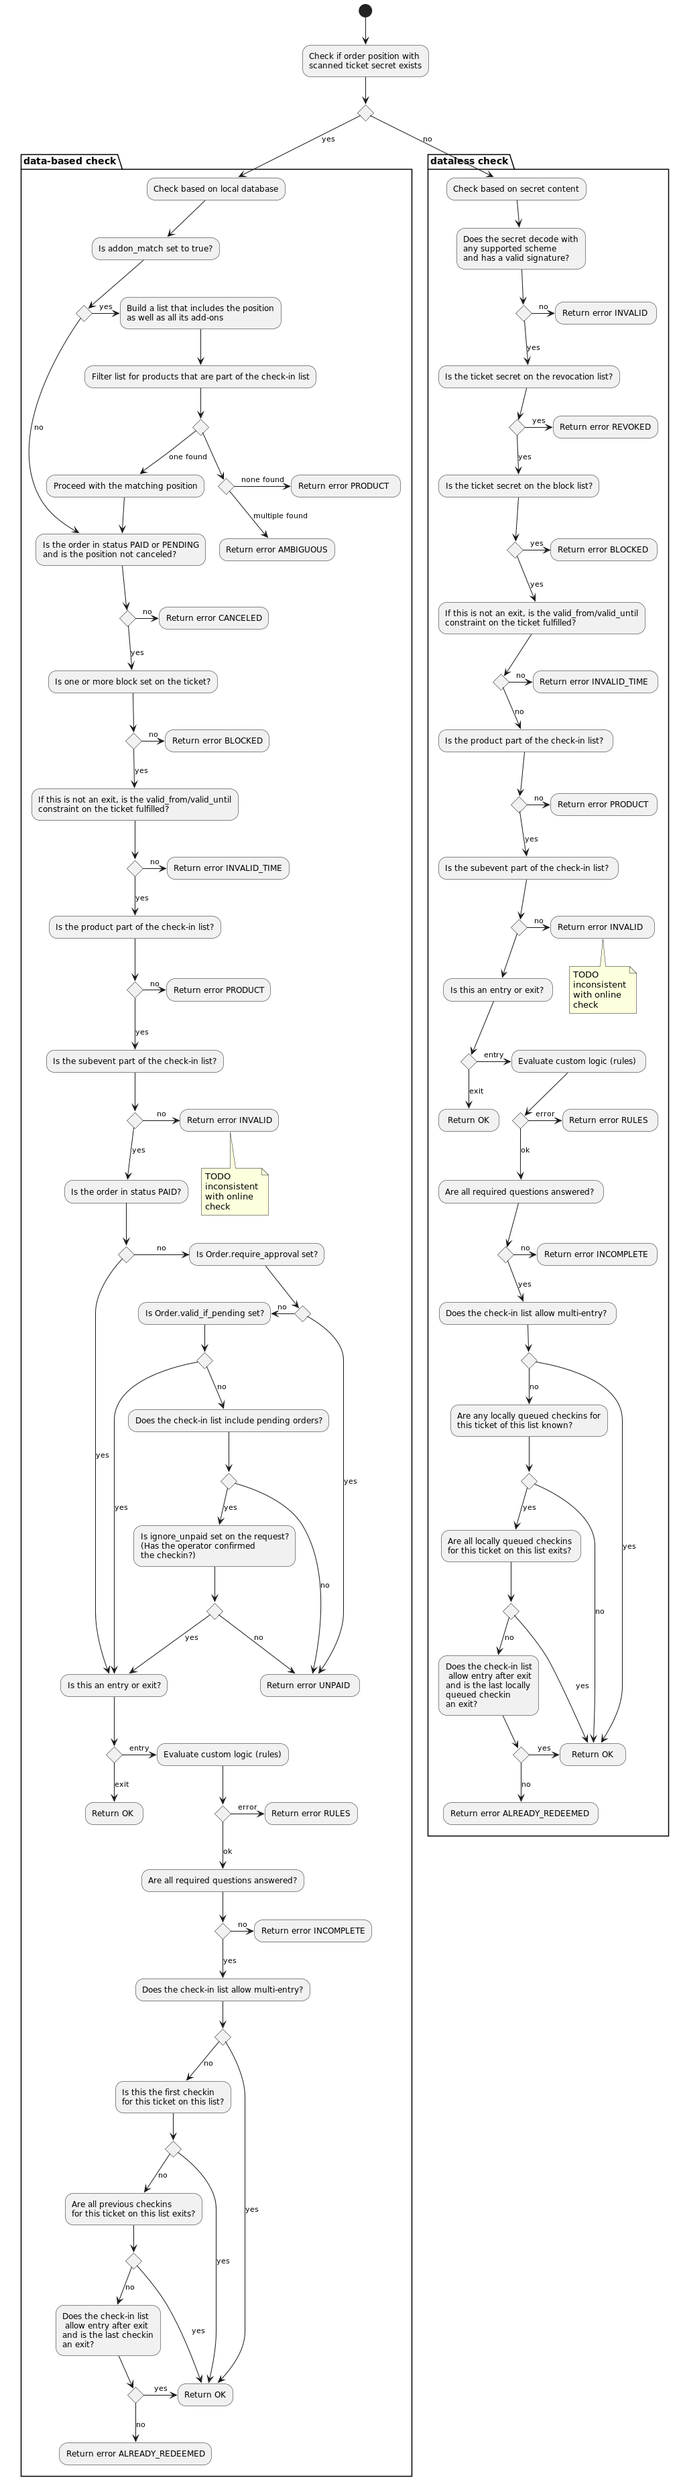
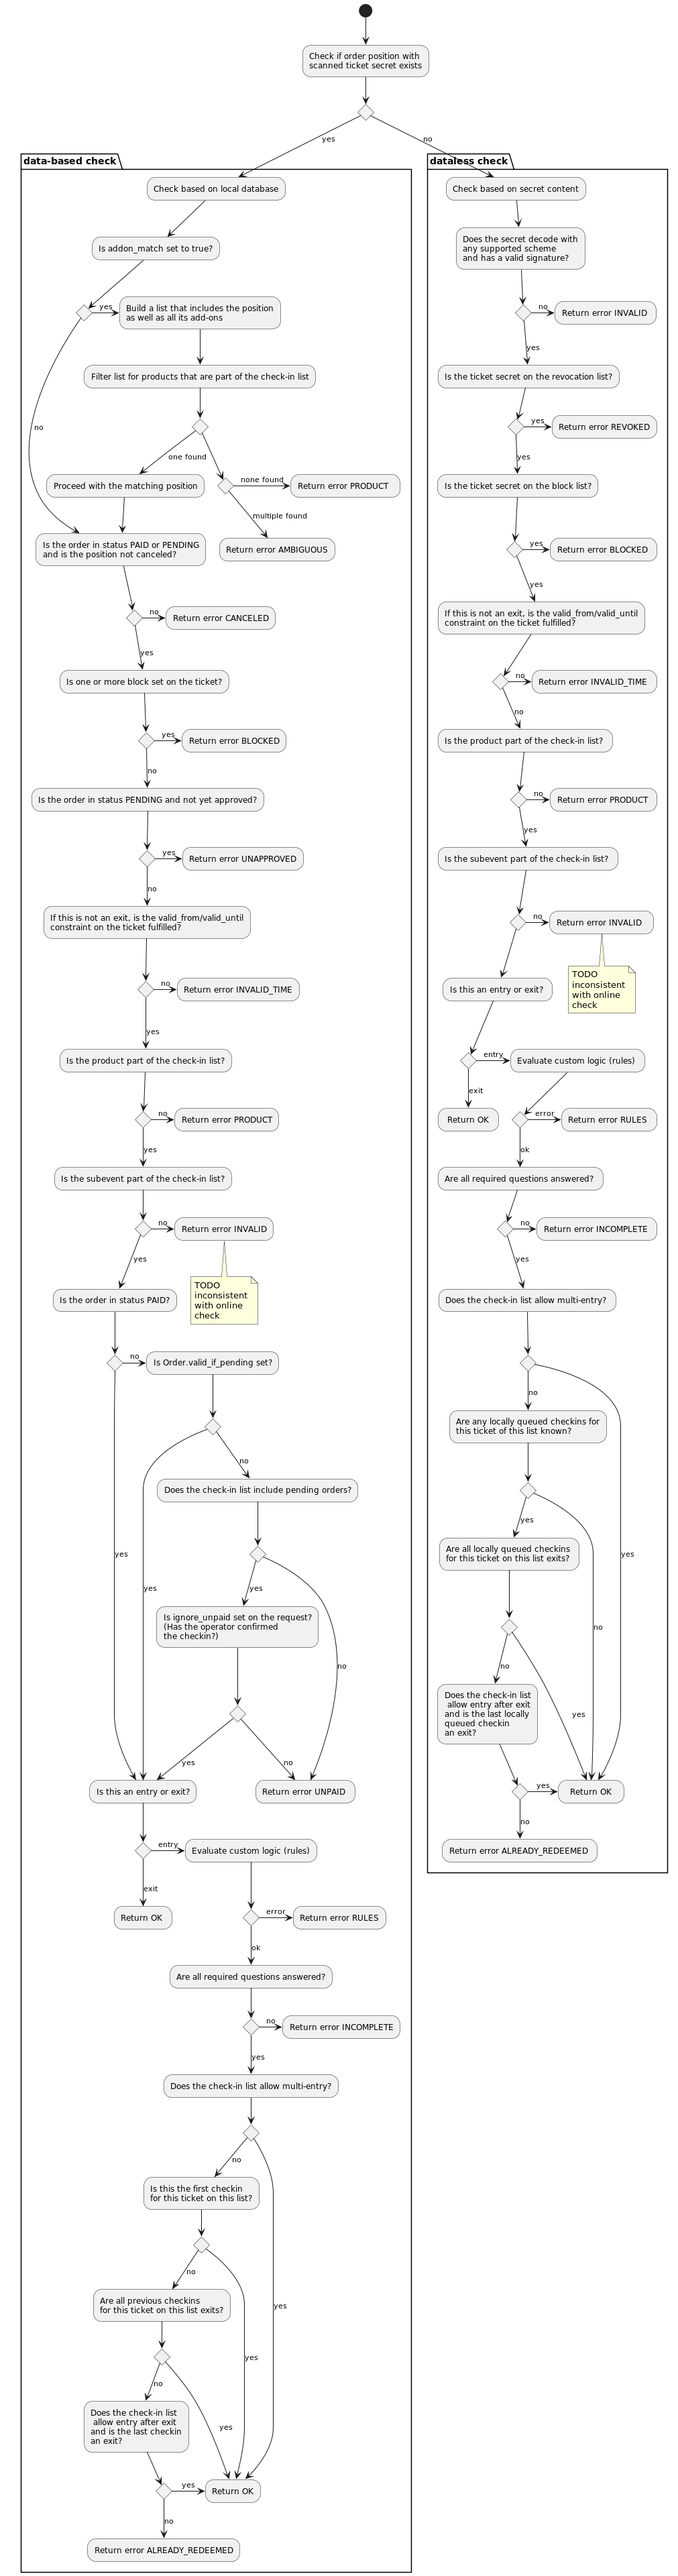
Check-in: New error reason for unapproved orders

diff --git a/src/pretix/plugins/webcheckin/static/pretixplugins/webcheckin/main.js b/src/pretix/plugins/webcheckin/static/pretixplugins/webcheckin/main.js
@@ -62,6 +62,7 @@ window.vapp = new Vue({
             'result.invalid_time': gettext('Ticket not valid at this time'),
             'result.canceled': gettext('Order canceled'),
             'result.ambiguous': gettext('Ticket code is ambiguous on list'),
+            'result.unapproved': gettext('Order not approved'),
             'status.checkin': gettext('Checked-in Tickets'),
             'status.position': gettext('Valid Tickets'),
             'status.inside': gettext('Currently inside'),

diff --git a/src/pretix/plugins/webcheckin/static/pretixplugins/webcheckin/components/app.vue b/src/pretix/plugins/webcheckin/static/pretixplugins/webcheckin/components/app.vue
@@ -278,8 +278,10 @@ export default {
         return this.$root.strings['result.ok']
       } else if (this.checkResult.status === 'incomplete') {
         return this.$root.strings['result.questions']
-      } else {
+      } else if (this.$root.strings['result.' + this.checkResult.reason]) {
         return this.$root.strings['result.' + this.checkResult.reason]
+      } else {
+        return this.checkResult.reason
       }
     },
     checkResultColor () {

diff --git a/src/pretix/base/services/checkin.py b/src/pretix/base/services/checkin.py
@@ -874,6 +874,15 @@ def perform_checkin(op: OrderPosition, clist: CheckinList, given_answers: dict, 
                 'blocked'
             )
 
+    if op.order.status == Order.STATUS_PENDING and op.order.require_approval:
+        if force:
+            force_used = True
+        else:
+            raise CheckInError(
+                _('This order is not yet approved.'),
+                'unapproved',
+            )
+
     if type != Checkin.TYPE_EXIT and op.valid_from and op.valid_from > dt:
         if force:
             force_used = True
@@ -941,14 +950,6 @@ def perform_checkin(op: OrderPosition, clist: CheckinList, given_answers: dict, 
                     'product'
                 )
 
-        if op.order.status != Order.STATUS_PAID and op.order.require_approval:
-            if force:
-                force_used = True
-            else:
-                raise CheckInError(
-                    _('This order is not yet approved.'),
-                    'unpaid'
-                )
         elif op.order.status != Order.STATUS_PAID and not op.order.valid_if_pending and not (
             ignore_unpaid and clist.include_pending and op.order.status == Order.STATUS_PENDING
         ):

diff --git a/src/pretix/base/models/checkin.py b/src/pretix/base/models/checkin.py
@@ -352,6 +352,7 @@ class Checkin(models.Model):
     REASON_AMBIGUOUS = 'ambiguous'
     REASON_ERROR = 'error'
     REASON_BLOCKED = 'blocked'
+    REASON_UNAPPROVED = 'unapproved'
     REASON_INVALID_TIME = 'invalid_time'
     REASONS = (
         (REASON_CANCELED, _('Order canceled')),
@@ -365,6 +366,7 @@ class Checkin(models.Model):
         (REASON_AMBIGUOUS, _('Ticket code is ambiguous on list')),
         (REASON_ERROR, _('Server error')),
         (REASON_BLOCKED, _('Ticket blocked')),
+        (REASON_UNAPPROVED, _('Order not approved')),
         (REASON_INVALID_TIME, _('Ticket not valid at this time')),
     )
 

diff --git a/src/tests/base/test_checkin.py b/src/tests/base/test_checkin.py
@@ -243,7 +243,7 @@ def test_require_approval(position, clist):
     clist.save()
     with pytest.raises(CheckInError) as excinfo:
         perform_checkin(position, clist, {}, ignore_unpaid=True)
-    assert excinfo.value.code == 'unpaid'
+    assert excinfo.value.code == 'unapproved'
     perform_checkin(position, clist, {}, ignore_unpaid=True, force=True)
     assert position.checkins.count() == 1
 

diff --git a/doc/api/resources/checkinlists.rst b/doc/api/resources/checkinlists.rst
@@ -632,7 +632,8 @@ Order position endpoints
                                        set this to ``false``. In that case, questions will just be ignored. Defaults
                                        to ``true``.
    :<json boolean canceled_supported: When this parameter is set to ``true``, the response code ``canceled`` may be
-                                      returned. Otherwise, canceled orders will return ``unpaid``.
+                                      returned. Otherwise, canceled orders will return ``unpaid``. (**Deprecated**, will
+                                      be removed and always ``true`` in the future.)
    :<json datetime datetime: Specifies the datetime of the check-in. If not supplied, the current time will be used.
    :<json boolean force: Specifies that the check-in should succeed regardless of revoked barcode, previous check-ins or required
                          questions that have not been filled. This is usually used to upload offline scans that already happened,
@@ -758,6 +759,7 @@ Order position endpoints
    * ``rules`` - Check-in prevented by a user-defined rule.
    * ``ambiguous`` - Multiple tickets match scan, rejected.
    * ``revoked`` - Ticket code has been revoked.
+   * ``unapproved`` - Order has not yet been approved.
 
    In case of reason ``rules`` or ``invalid_time``, there might be an additional response field ``reason_explanation``
    with a human-readable description of the violated rules. However, that field can also be missing or be ``null``.

diff --git a/doc/api/resources/checkin.rst b/doc/api/resources/checkin.rst
@@ -217,6 +217,7 @@ Checking a ticket in
    * ``rules`` - Check-in prevented by a user-defined rule.
    * ``ambiguous`` - Multiple tickets match scan, rejected.
    * ``revoked`` - Ticket code has been revoked.
+   * ``unapproved`` - Order has not yet been approved.
    * ``error`` - Internal error.
 
    In case of reason ``rules`` and ``invalid_time``, there might be an additional response field ``reason_explanation``
